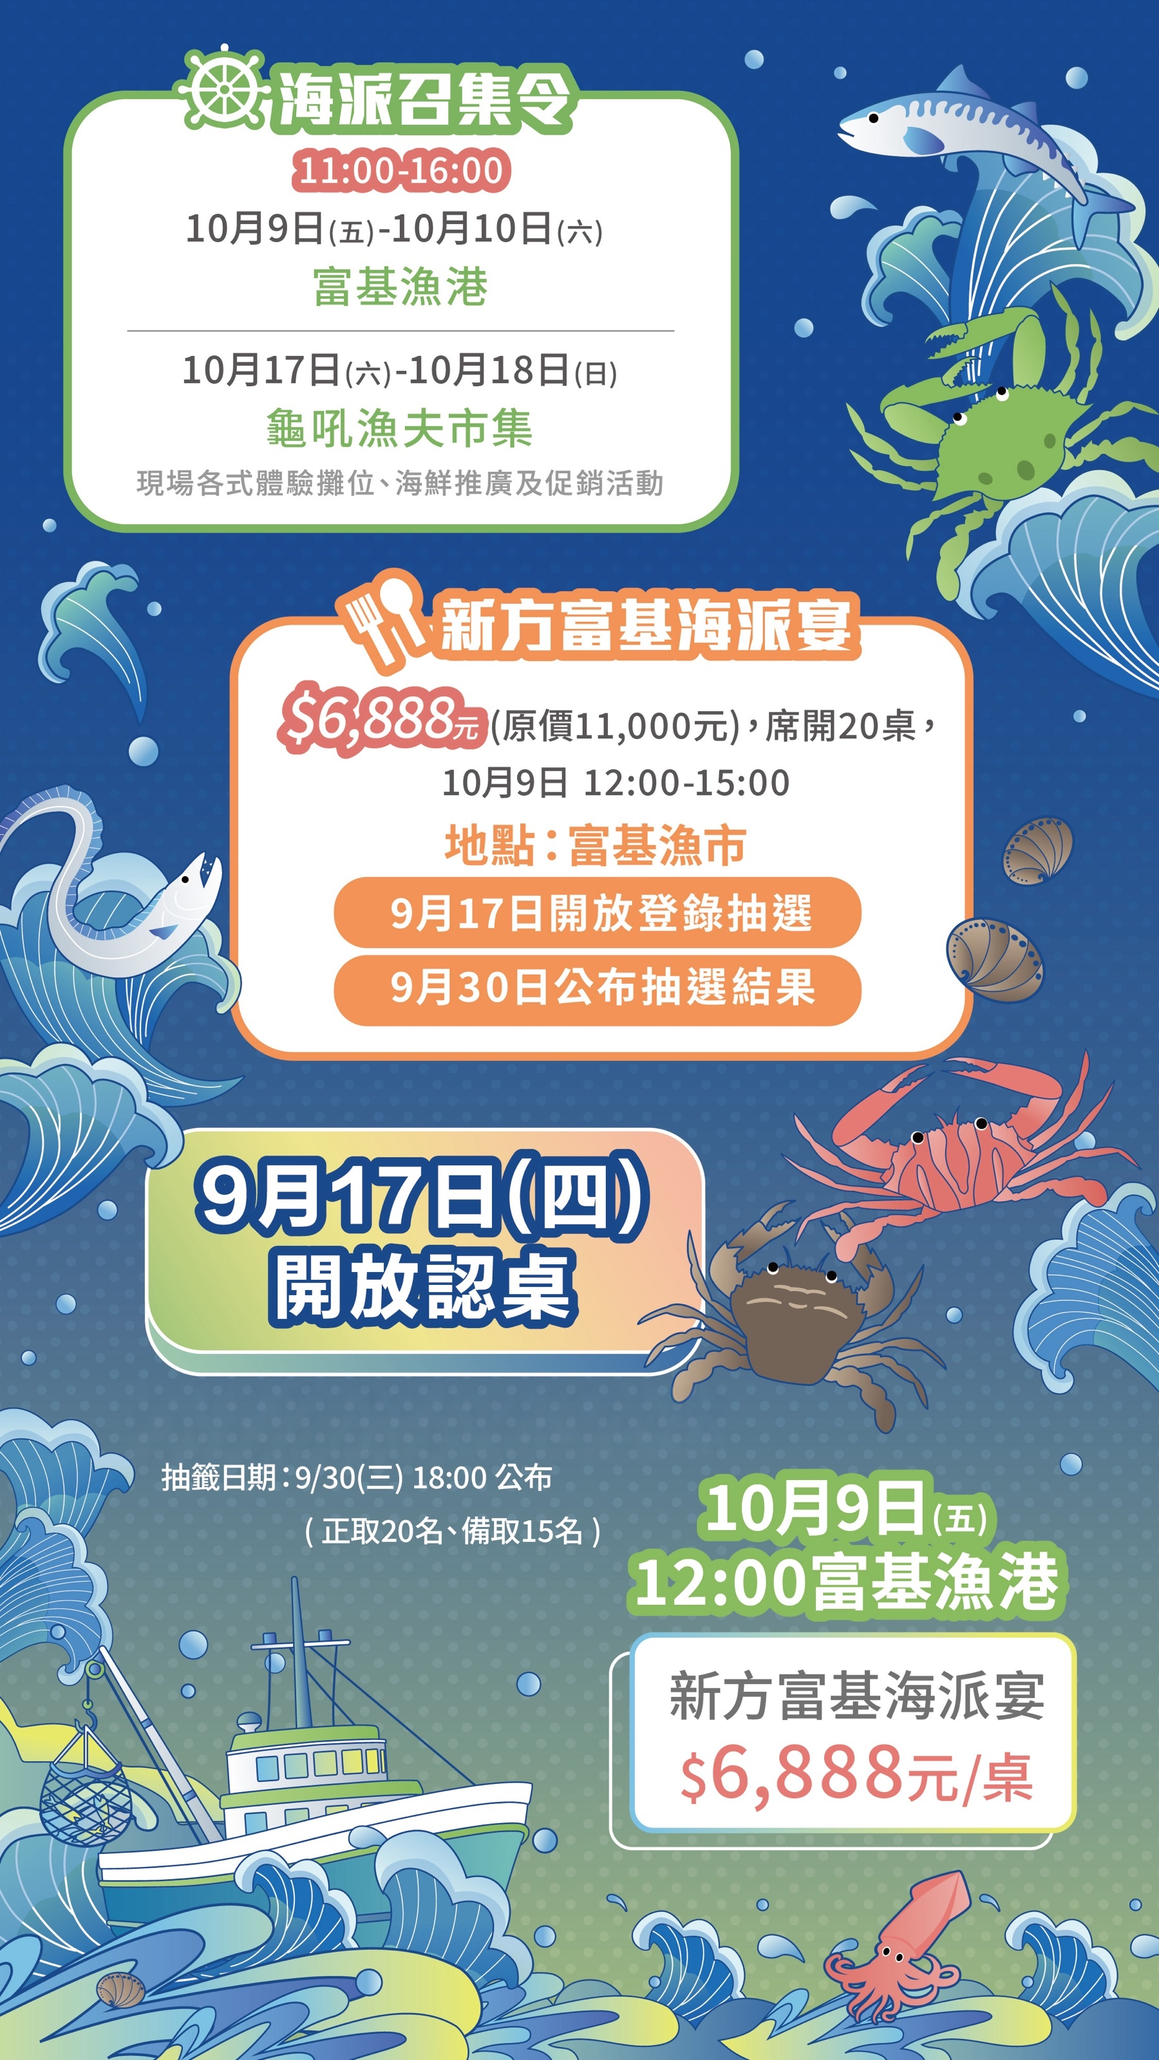
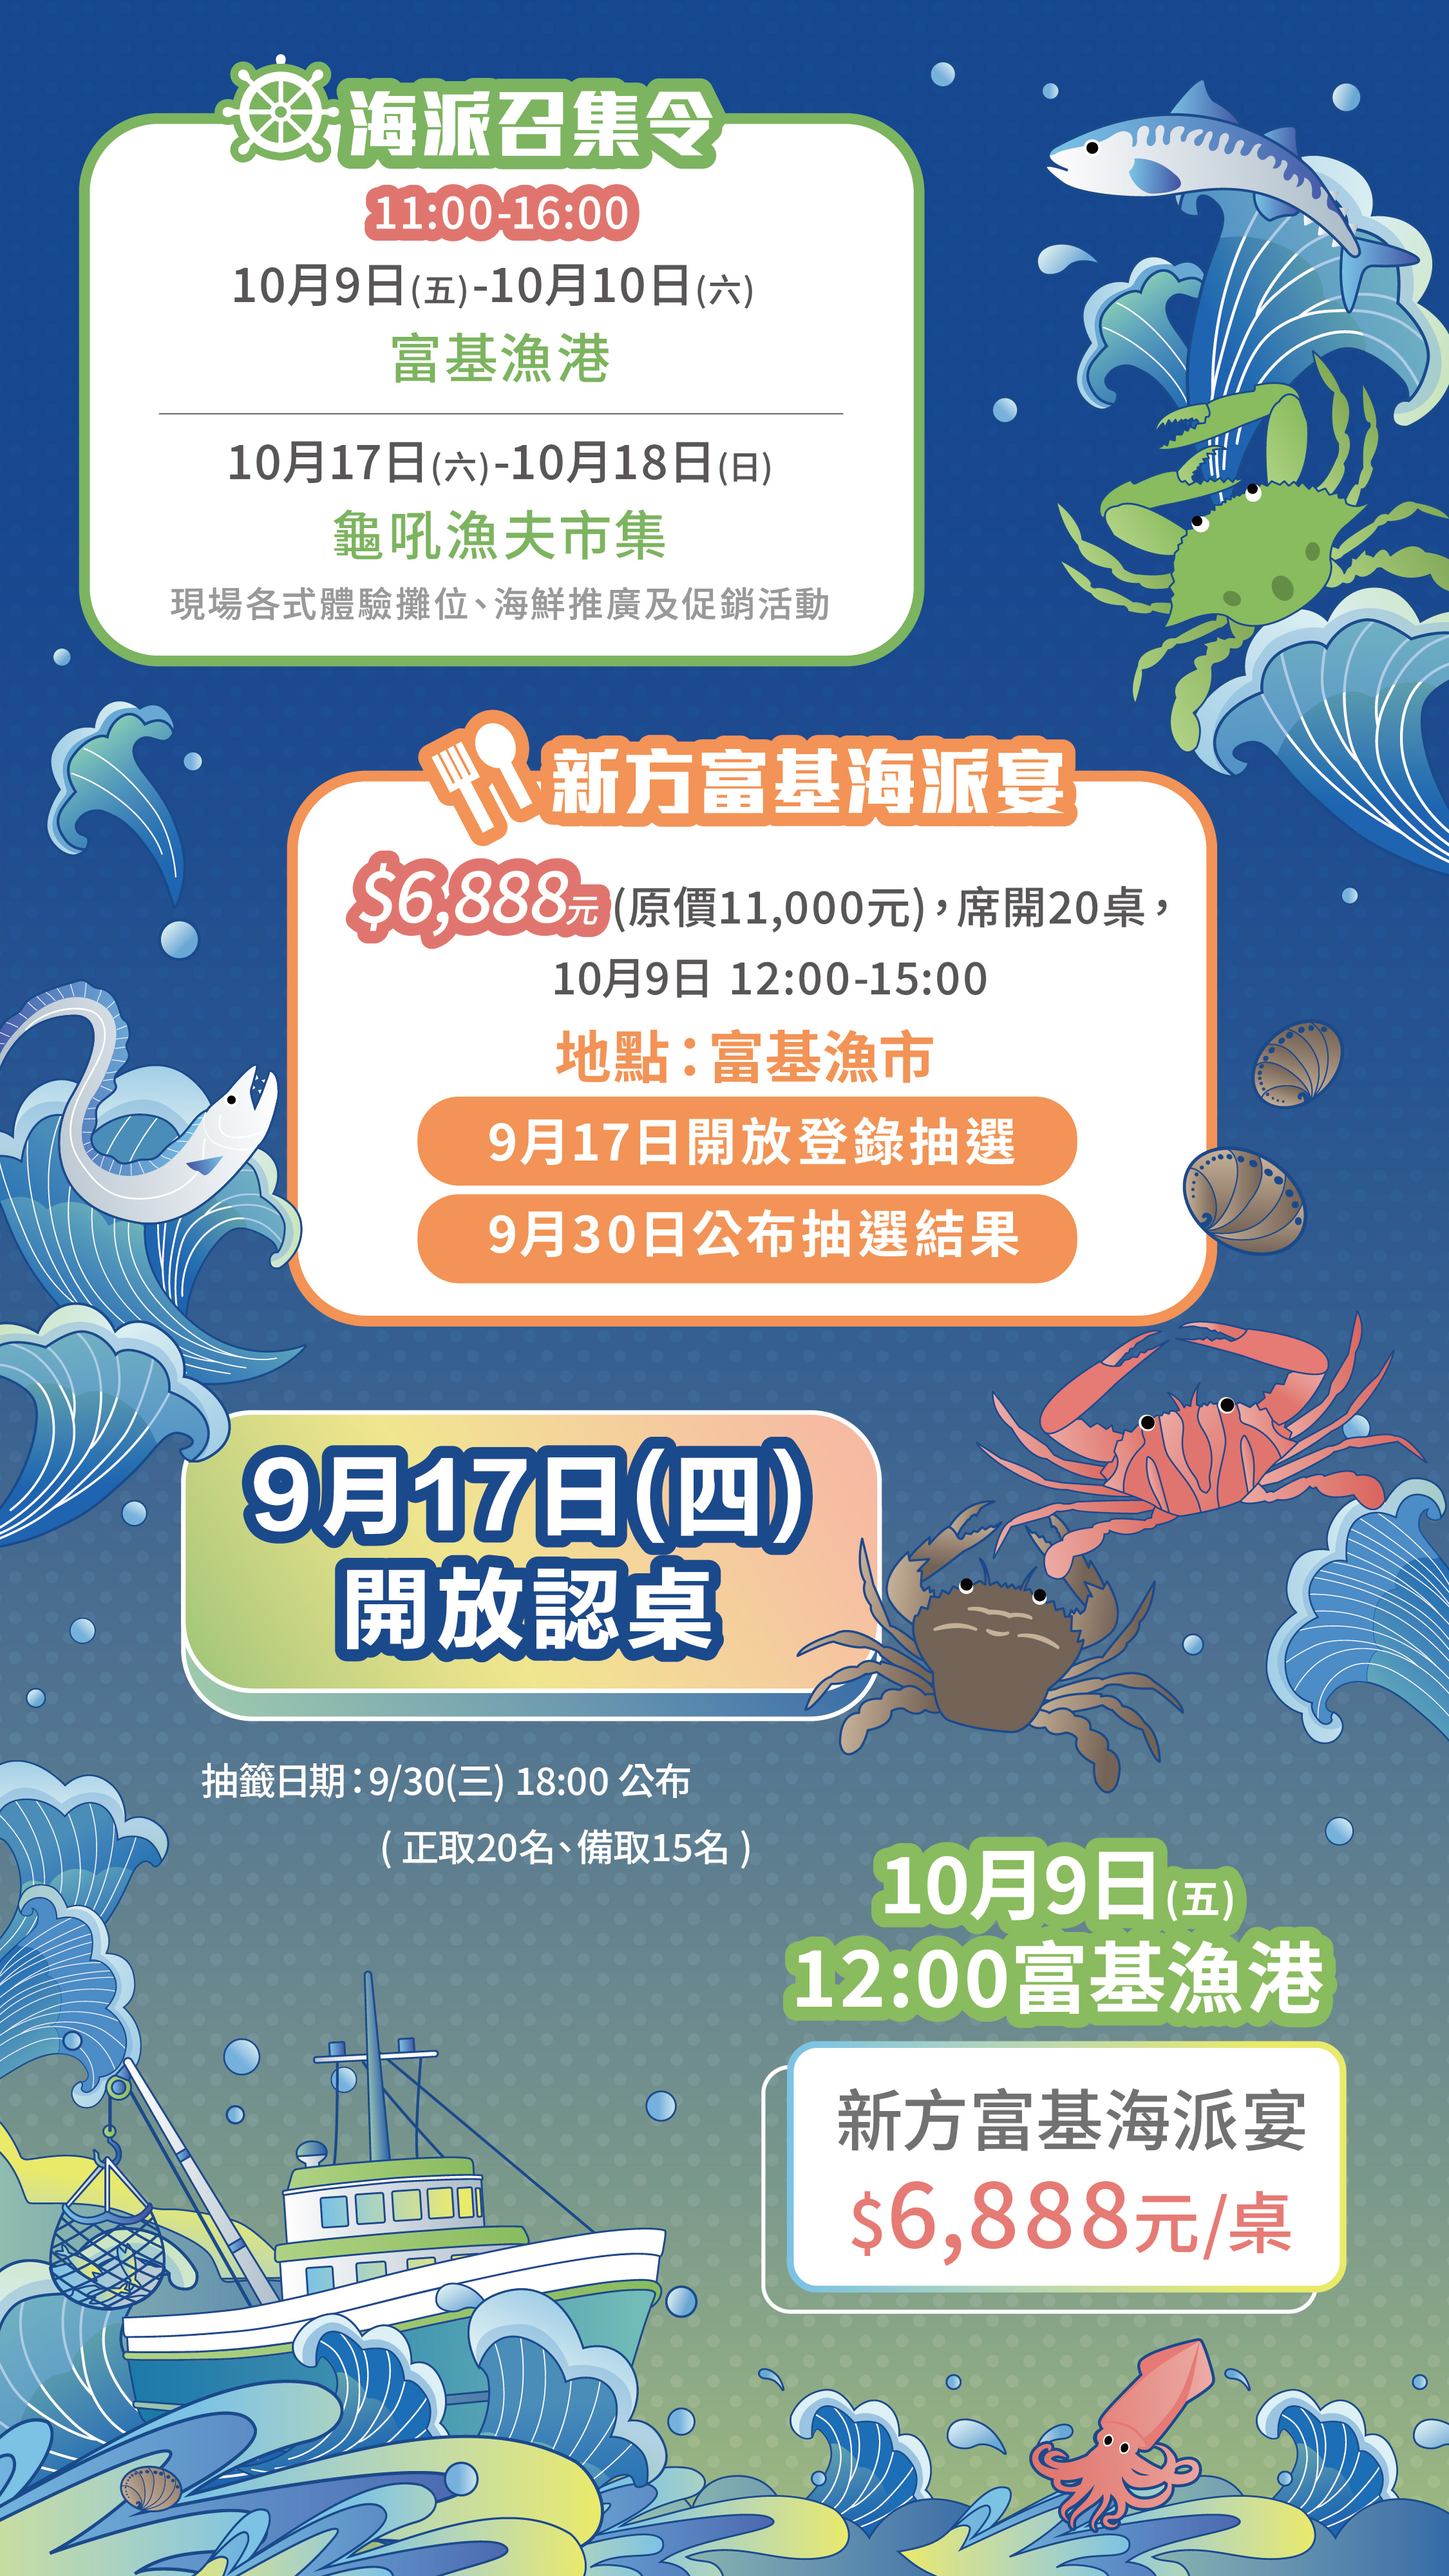
feat: update event artwork and mobile autoplay

diff --git a/src/views/HomeView.vue b/src/views/HomeView.vue
@@ -19,7 +19,7 @@ let mobileQuery
 
 function setVideoSource() {
   const videoId = mobileQuery?.matches ? mobileVideoId : desktopVideoId
-  introVideoSrc.value = `https://www.youtube.com/embed/${videoId}?autoplay=1&playsinline=1&rel=0&modestbranding=1`
+  introVideoSrc.value = `https://www.youtube.com/embed/${videoId}?autoplay=1&mute=1&playsinline=1&rel=0&modestbranding=1`
 }
 
 function closeIntro() {
